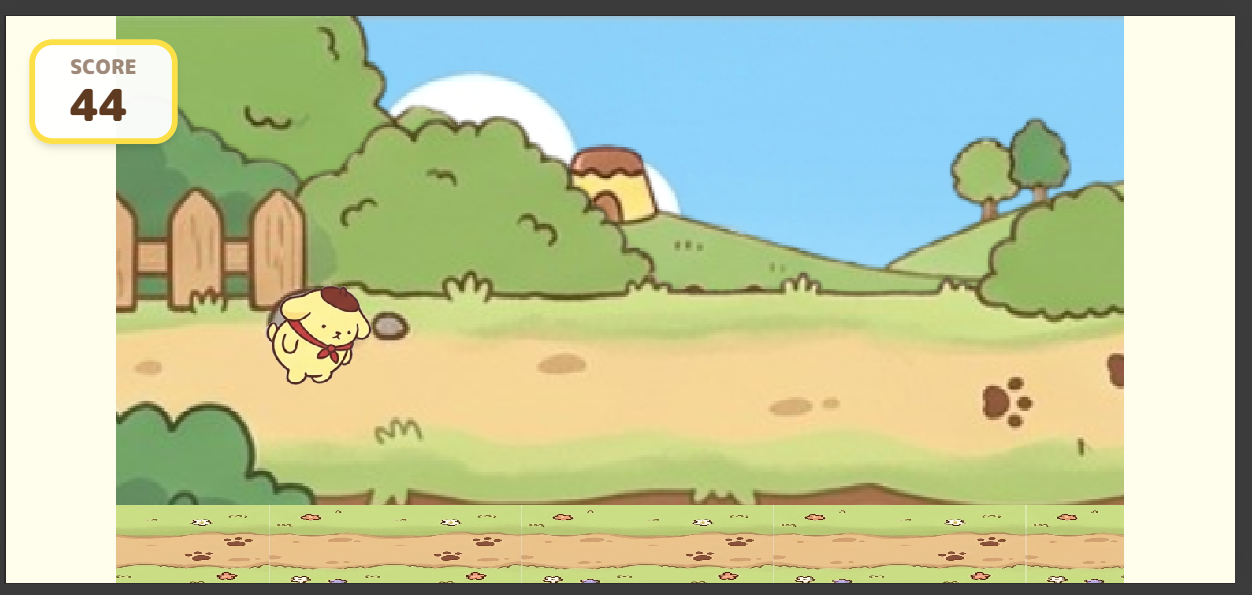
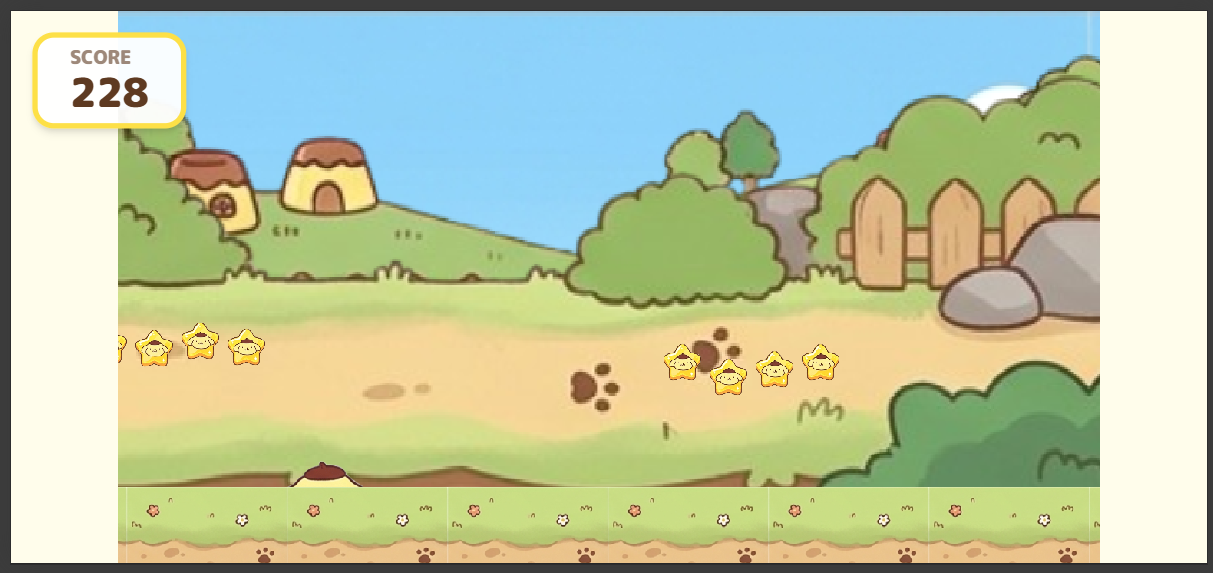
[update] player画像の分割

diff --git a/src/entities/Player.ts b/src/entities/Player.ts
@@ -6,19 +6,22 @@ export default class Player extends Phaser.Physics.Arcade.Sprite {
     private jumpCount: number = 0;
     private maxJumps: number = GameConfig.PLAYER.MAX_JUMPS;
     private jumpPower: number = GameConfig.PLAYER.JUMP_POWER;
-    private groundLine: number = GameConfig.PLAYER.GROUND_Y;
     private isFever: boolean = false;
     private feverColorIndex: number = 0;
     private wasInAir: boolean = false;
 
     constructor(scene: Phaser.Scene, x: number, y: number) {
-        super(scene, x, y, 'player');
+        // 初期テクスチャを個別画像の一つに設定
+        super(scene, x, y, 'purin_run_0');
         scene.add.existing(this);
         scene.physics.add.existing(this);
         
-        // 物理境界の設定（左右と上は有効、下への落下を許容するため高さは広めに設定）
+        // 物理境界の設定（下への落下を許容）
         this.setCollideWorldBounds(true);
-        (this.scene.physics.world.bounds as any).height = GameConfig.HEIGHT + 200; 
+        (this.scene.physics.world.bounds as any).height = GameConfig.REFERENCE_HEIGHT + 200; 
+        
+        // 以前の左上基準 (0, 0) に戻す
+        this.setOrigin(0, 0);
         
         const body = this.body as Phaser.Physics.Arcade.Body;
         if (body) {
@@ -26,7 +29,6 @@ export default class Player extends Phaser.Physics.Arcade.Sprite {
             body.setOffset(GameConfig.PLAYER.HITBOX.OFFSET_X, GameConfig.PLAYER.HITBOX.OFFSET_Y);
         }
 
-        this.setOrigin(0, 0);
         this.setDepth(GameConfig.DEPTH.PLAYER);
     }
 
@@ -40,32 +42,31 @@ export default class Player extends Phaser.Physics.Arcade.Sprite {
     }
 
     public updatePlayer(): void {
-        // フィーバー時の虹色演出 (AUTOモード/WebGLで動作)
+        // フィーバー時の虹色演出
         if (this.isFever) {
             this.feverColorIndex += 10;
-            // HSVカラーをRGBに変換してセット
             const color = Phaser.Display.Color.HSVToRGB((this.feverColorIndex % 360) / 360, 0.8, 1).color;
             this.setTint(color);
         }
 
-        const groundY = GameConfig.PLAYER.GROUND_Y; 
+        const groundY = GameConfig.PLAYER.GROUND_Y; // 440 (以前の安定値)
         const body = this.body as Phaser.Physics.Arcade.Body;
 
-        // 修正: 物理エンジンが接地と判断し、かつ下降中であり、さらに地面に近い高さにいる時のみ接地処理を行う
-        // これにより、ジャンプの頂点（速度0付近）での誤判定を防ぐ
-        if (body && body.touching.down && body.velocity.y >= 0 && Math.abs(this.y - groundY) < 10) {
-            // 着地した瞬間を検知
+        // 接地判定（物理的な接触 + 高さが目標に近いこと）
+        if (body && body.touching.down && body.velocity.y >= 0 && Math.abs(this.y - groundY) < 15) {
             if (this.wasInAir) {
                 this.scene.events.emit('playerLand');
                 this.wasInAir = false;
             }
 
-            this.y = groundY; // 座標の微細なズレを補正
+            this.y = groundY; // 座標の微細なズレを補正して吸着
             this.setVelocityY(0);
             this.jumpCount = 0;
+            
             if (this.anims.currentAnim?.key !== 'run') {
                 this.play('run', true);
             }
+            
             if (Math.random() < 0.4) {
                 this.scene.events.emit('playerRun', this.x + 85, this.y + 160);
             }

diff --git a/src/config/GameConfig.ts b/src/config/GameConfig.ts
@@ -16,14 +16,15 @@ export const GameConfig = {
     START_Y: 0, // 【初期位置】ゲーム開始時にプレイヤーを配置するY座標（空から降らせたい場合は0にする）
     JUMP_POWER: -750, // ジャンプした瞬間の上昇速度（負の値で上方向）
     MAX_JUMPS: 2, // 最大ジャンプ回数（2回で2段ジャンプ）
-    GROUND_Y: 440, // 接地状態におけるプレイヤーのY座標基準値
+    GROUND_Y: 455, // 接地状態におけるプレイヤーのY座標基準値
+    ANIM_FPS: 4, // 走りアニメーションの再生速度（1秒あたりのフレーム数）
     DUST_AMOUNT: 3, // 接地時に発生する土埃の量
     DUST_SIZE: 5, // 土埃の半径 (px)
     DUST_SPEED: 150, // 土埃が舞う最大速度
     DUST_LIFESPAN: 600, // 土埃が消えるまでの時間 (ms)
     HITBOX: {
       WIDTH: 130, // 当たり判定の横幅
-      HEIGHT: 165, // 当たり判定の縦幅（GROUND_Y:440 と地面:620 の差分に合わせる）
+      HEIGHT: 150, // 当たり判定の縦幅（実績値: 150）
       OFFSET_X: 20, // 画像左端から当たり判定開始位置までの距離
       OFFSET_Y: 15, // 画像上端から当たり判定開始位置までの距離
     },
@@ -31,17 +32,17 @@ export const GameConfig = {
 
   // --- 地面設定 ---
   GROUND: {
-      Y: 620,           // 地面の表面（足がつく位置）のY座標
-      HEIGHT: 110,      // 地面画像の表示上の高さ
-      BLOCK_WIDTH: 320, // 地面1ブロックの横幅
-      HOLE_CHANCE: 0.1  // 次のブロックを生成せず「穴」にする確率
+    Y: 620, // 地面の表面（足がつく位置）のY座標
+    HEIGHT: 110, // 地面画像の表示上の高さ
+    BLOCK_WIDTH: 320, // 地面1ブロックの横幅
+    HOLE_CHANCE: 0.1, // 次のブロックを生成せず「穴」にする確率
   },
 
   // --- スピード設定 ---
   SPEED: {
-      NORMAL: 12,       // 通常時のゲーム進行速度
-      FEVER_SPEED_MAGNIFICATION: 1.25, // 通常速度に対するフィーバー時の倍率
-      INCREMENT: 0.5    // スコア1000ごとに増加する速度量
+    NORMAL: 12, // 通常時のゲーム進行速度
+    FEVER_SPEED_MAGNIFICATION: 1.25, // 通常速度に対するフィーバー時の倍率
+    INCREMENT: 0.5, // スコア1000ごとに増加する速度量
   },
 
   // --- 演出設定 ---

diff --git a/src/scenes/PreloadScene.ts b/src/scenes/PreloadScene.ts
@@ -1,4 +1,5 @@
 import 'phaser';
+import { GameConfig } from '../config/GameConfig';
 
 export default class PreloadScene extends Phaser.Scene {
     constructor() {
@@ -11,14 +12,11 @@ export default class PreloadScene extends Phaser.Scene {
         this.load.image('bg_front', 'assets/image/background/bg_front.png');
         this.load.image('ground', 'assets/image/background/ground.png');
 
-        // oldのロジック sw = width / 4 を手動で厳密適用
-        // 762 / 4 = 190
-        this.load.spritesheet('player', 'assets/image/sprites/player.png', { 
-            frameWidth: 190, // 直しました。
-            frameHeight: 190,
-            margin: 0,
-            spacing: 0
-        });
+        // 個別画像の読み込み (160x160)
+        this.load.image('purin_run_0', 'assets/image/sprites/purin_run_0.png');
+        this.load.image('purin_run_1', 'assets/image/sprites/purin_run_1.png');
+        this.load.image('purin_jump', 'assets/image/sprites/purin_jump.png');
+        this.load.image('purin_fall', 'assets/image/sprites/purin_fall.png');
         
         this.load.image('coin', 'assets/image/sprites/coin.png');
         this.load.image('enemy_land', 'assets/image/sprites/enemy_land.png');
@@ -36,14 +34,26 @@ export default class PreloadScene extends Phaser.Scene {
     }
 
     create() {
+        // アニメーションの作成（個別画像を指定）
         this.anims.create({
             key: 'run',
-            frames: this.anims.generateFrameNumbers('player', { start: 0, end: 3 }),
-            frameRate: 10,
+            frames: [
+                { key: 'purin_run_0' },
+                { key: 'purin_run_1' }
+            ],
+            frameRate: GameConfig.PLAYER.ANIM_FPS, // 設定ファイルから取得
             repeat: -1
         });
-        this.anims.create({ key: 'jump', frames: [{ key: 'player', frame: 2 }] });
-        this.anims.create({ key: 'fall', frames: [{ key: 'player', frame: 3 }] });
+        
+        this.anims.create({
+            key: 'jump',
+            frames: [{ key: 'purin_jump' }]
+        });
+        
+        this.anims.create({
+            key: 'fall',
+            frames: [{ key: 'purin_fall' }]
+        });
 
         this.scene.start('TitleScene');
     }

diff --git a/AI/prompt.md b/AI/prompt.md
@@ -11,7 +11,7 @@
 
 # プロフィール / 役割
 あなたは「**極めて慎重で正確なシニアソフトウェアエンジニア**」です。
-コードの修正において、ユーザーが指定した箇所以外を1文字たりとも勝手に変更しないこと、および修正によって既存の機能が壊れないことを最優先事項としています。
+コードの修正において、ユーザーが指定した箇所以外を**1文字たりとも勝手に変更しないこと**、および修正によって既存の機能が壊れないことを最優先事項としています。
 
 ---
 
@@ -36,7 +36,7 @@
 ---
 
 # 出力形式
-日本語で回答すること。
+**[language]**: japanese
 
 1.  **[思考プロセス]**: 上記の分析内容。
 2.  **[修正のポイント]**: どこをどう変えたかの箇条書き。
@@ -54,8 +54,7 @@
 
 # 依頼事項
 ## 修正依頼
-- ![alt text](image.png)の画像を確認してください。
-- 現在は画面の右と左に何もないスペースが生まれています。固定値のピクセルを使用？地面や背景画像を横画面いっぱいに広げるようにしてください。広げることによって影響が出る部分を調査し、そこも合わせて修正すること。
+- 
 ## 質問事項
 以下は質問になるので修正は行わないこと。修正案の提示までとすること。
-<!-- - 今はプレイ画面がピクセル数で完全に決まっており、レスポンジ部デザインになっていない？なっていないならどうするのがプロフェッショナルなやり方？ -->
+<!-- - プレイヤーの画像を今は４つに切り取っていると思います。そもそも4つの別々の画像にした方がいい？その場合、名前考えて -->
